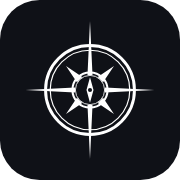
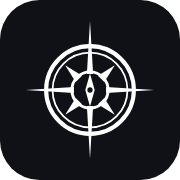
fix(brand): bússola legível em tamanho pequeno (selos do app)
Todos os usos da marca no app eram 16–20px, onde os traços finos do desenho
(anéis duplos, agulha pequena) viravam sub-pixel e sumiam. Ajustes:

- Geometria mais bold: anel externo 5→7, anel interno 2→3, hub único 5
  (removido o hairline duplo), espigões mais largos e agulha/ponto maiores.
- Marca maior nos selos: ícone h-5→h-7 (h-4→h-6 no caixa) e quadrados da
  sidebar/caixa ampliados pra dar respiro (h-8→h-9, h-7→h-8).

Validado em selo de 28px com as cores reais (emerald): anel, estrela, hub e
agulha agora nítidos. Build, tipos e lint verdes.

Changed region(s): [[0.1944, 0.1667, 0.8056, 0.8333]]

diff --git a/app/components/BrandMark.tsx b/app/components/BrandMark.tsx
@@ -19,12 +19,11 @@ export function BrandMark({
       xmlns="http://www.w3.org/2000/svg"
       {...props}
     >
-      <path d="M120,2 L115.71,94.36 L124.29,94.36 Z M120,238 L124.29,145.64 L115.71,145.64 Z M230,120 L145.64,115.71 L145.64,124.29 Z M10,120 L94.36,124.29 L94.36,115.71 Z M161.01,78.99 L133.2,97.6 L142.4,106.8 Z M161.01,161.01 L142.4,133.2 L133.2,142.4 Z M78.99,161.01 L106.8,142.4 L97.6,133.2 Z M78.99,78.99 L97.6,106.8 L106.8,97.6 Z" fill="currentColor"/>
-        <circle cx="120" cy="120" r="76" fill="none" stroke="currentColor" strokeWidth="5"/>
-        <circle cx="120" cy="120" r="68" fill="none" stroke="currentColor" strokeWidth="2"/>
-        <circle cx="120" cy="120" r="30" fill="none" stroke="currentColor" strokeWidth="3.5"/>
-        <circle cx="120" cy="120" r="25" fill="none" stroke="currentColor" strokeWidth="1.5"/>
-        <path d="M120,98 L126,120 L120,142 L114,120 Z M123.5,120 a3.5,3.5 0 1,0 -7,0 a3.5,3.5 0 1,0 7,0 Z" fill="currentColor" fillRule="evenodd"/>
+      <path d="M120,2 L114.66,92.51 L125.34,92.51 Z M120,238 L125.34,147.49 L114.66,147.49 Z M230,120 L147.49,114.66 L147.49,125.34 Z M10,120 L92.51,125.34 L92.51,114.66 Z M162.43,77.57 L133.57,95.51 L144.49,106.43 Z M162.43,162.43 L144.49,133.57 L133.57,144.49 Z M77.57,162.43 L106.43,144.49 L95.51,133.57 Z M77.57,77.57 L95.51,106.43 L106.43,95.51 Z" fill="currentColor"/>
+        <circle cx="120" cy="120" r="75" fill="none" stroke="currentColor" strokeWidth="7"/>
+        <circle cx="120" cy="120" r="64" fill="none" stroke="currentColor" strokeWidth="3"/>
+        <circle cx="120" cy="120" r="31" fill="none" stroke="currentColor" strokeWidth="5"/>
+        <path d="M120,92 L128,120 L120,148 L112,120 Z M124.5,120 a4.5,4.5 0 1,0 -9,0 a4.5,4.5 0 1,0 9,0 Z" fill="currentColor" fillRule="evenodd"/>
     </svg>
   );
 }

diff --git a/app/espaco/[slug]/shell.tsx b/app/espaco/[slug]/shell.tsx
@@ -195,8 +195,8 @@ export default function Shell({
               Sair do caixa
             </Link>
             <div className="flex items-center gap-2">
-              <div className="grid h-7 w-7 place-items-center rounded-lg bg-brand-500/15 text-brand-300 ring-1 ring-brand-500/30">
-                <BrandMark className="h-4 w-4" />
+              <div className="grid h-8 w-8 place-items-center rounded-lg bg-brand-500/15 text-brand-300 ring-1 ring-brand-500/30">
+                <BrandMark className="h-6 w-6" />
               </div>
               <span className="font-semibold tracking-tight">Caixa</span>
               <span className="hidden text-sm text-slate-400 sm:inline">
@@ -323,8 +323,8 @@ export default function Shell({
                 className="h-9 w-9 shrink-0 rounded-lg object-contain bg-white/5 p-1"
               />
             ) : (
-              <div className="grid h-8 w-8 place-items-center rounded-lg bg-brand-500/15 text-brand-300 ring-1 ring-brand-500/30">
-                <BrandMark className="h-5 w-5" />
+              <div className="grid h-9 w-9 place-items-center rounded-lg bg-brand-500/15 text-brand-300 ring-1 ring-brand-500/30">
+                <BrandMark className="h-7 w-7" />
               </div>
             )}
             <div className="min-w-0">

diff --git a/app/landing.tsx b/app/landing.tsx
@@ -144,7 +144,7 @@ function Navbar() {
       <div className="mx-auto flex h-16 max-w-7xl items-center justify-between px-5">
         <a href="#topo" className="flex items-center gap-2.5">
           <span className="grid h-8 w-8 place-items-center rounded-lg bg-brand-500/15 text-brand-300 ring-1 ring-brand-500/30">
-            <BrandMark className="h-5 w-5" />
+            <BrandMark className="h-7 w-7" />
           </span>
           <span className="text-lg font-semibold tracking-tight">ENDURANCE</span>
           <span className="ml-1 hidden rounded-full border border-ink-600 px-2 py-0.5 text-[10px] uppercase tracking-wider text-slate-400 sm:inline">
@@ -1202,7 +1202,7 @@ function Footer() {
         <div>
           <div className="flex items-center gap-2.5">
             <span className="grid h-8 w-8 place-items-center rounded-lg bg-brand-500/15 text-brand-300 ring-1 ring-brand-500/30">
-              <BrandMark className="h-5 w-5" />
+              <BrandMark className="h-7 w-7" />
             </span>
             <span className="text-lg font-semibold tracking-tight">
               ENDURANCE

diff --git a/app/onboarding-client.tsx b/app/onboarding-client.tsx
@@ -437,7 +437,7 @@ function Navbar({ aiEnabled }: { aiEnabled: boolean }) {
       <div className="mx-auto flex h-16 max-w-6xl items-center justify-between px-5">
         <div className="flex items-center gap-2.5">
           <div className="grid h-8 w-8 place-items-center rounded-lg bg-brand-500/15 text-brand-300 ring-1 ring-brand-500/30">
-            <BrandMark className="h-5 w-5" />
+            <BrandMark className="h-7 w-7" />
           </div>
           <span className="text-lg font-semibold tracking-tight">ENDURANCE</span>
           <span className="ml-1 hidden rounded-full border border-ink-600 px-2 py-0.5 text-[10px] uppercase tracking-wider text-slate-400 sm:inline">

diff --git a/app/entrar/page.tsx b/app/entrar/page.tsx
@@ -30,7 +30,7 @@ export default async function EntrarPage({
       <main className="mx-auto flex min-h-screen max-w-md flex-col justify-center px-5 py-12">
         <Link href="/" className="mb-8 flex items-center gap-2.5">
           <div className="grid h-9 w-9 place-items-center rounded-xl bg-brand-500/15 text-brand-300 ring-1 ring-brand-500/30">
-            <BrandMark className="h-5 w-5" />
+            <BrandMark className="h-7 w-7" />
           </div>
           <span className="text-lg font-semibold tracking-tight">
             ENDURANCE

diff --git a/app/status/page.tsx b/app/status/page.tsx
@@ -41,7 +41,7 @@ export default async function StatusPage() {
         <div className="mx-auto flex max-w-3xl items-center justify-between px-5 py-4">
           <Link href="/" className="flex items-center gap-2 text-sm font-semibold tracking-tight">
             <span className="grid h-8 w-8 place-items-center rounded-lg bg-brand-500/15 text-brand-300 ring-1 ring-brand-500/30">
-              <BrandMark className="h-5 w-5" />
+              <BrandMark className="h-7 w-7" />
             </span>
             ENDURANCE
           </Link>

diff --git a/app/precos/page.tsx b/app/precos/page.tsx
@@ -23,7 +23,7 @@ export default function PrecosPage() {
         <div className="mx-auto flex max-w-6xl items-center justify-between px-5 py-4">
           <Link href="/" className="flex items-center gap-2 text-sm font-semibold tracking-tight">
             <span className="grid h-8 w-8 place-items-center rounded-lg bg-brand-500/15 text-brand-300 ring-1 ring-brand-500/30">
-              <BrandMark className="h-5 w-5" />
+              <BrandMark className="h-7 w-7" />
             </span>
             ENDURANCE
           </Link>

diff --git a/app/(legais)/legal-shell.tsx b/app/(legais)/legal-shell.tsx
@@ -20,7 +20,7 @@ export default function LegalShell({
         <div className="mx-auto flex max-w-3xl items-center justify-between px-5 py-4">
           <Link href="/" className="flex items-center gap-2 text-sm font-semibold tracking-tight">
             <span className="grid h-8 w-8 place-items-center rounded-lg bg-brand-500/15 text-brand-300 ring-1 ring-brand-500/30">
-              <BrandMark className="h-5 w-5" />
+              <BrandMark className="h-7 w-7" />
             </span>
             ENDURANCE
           </Link>
